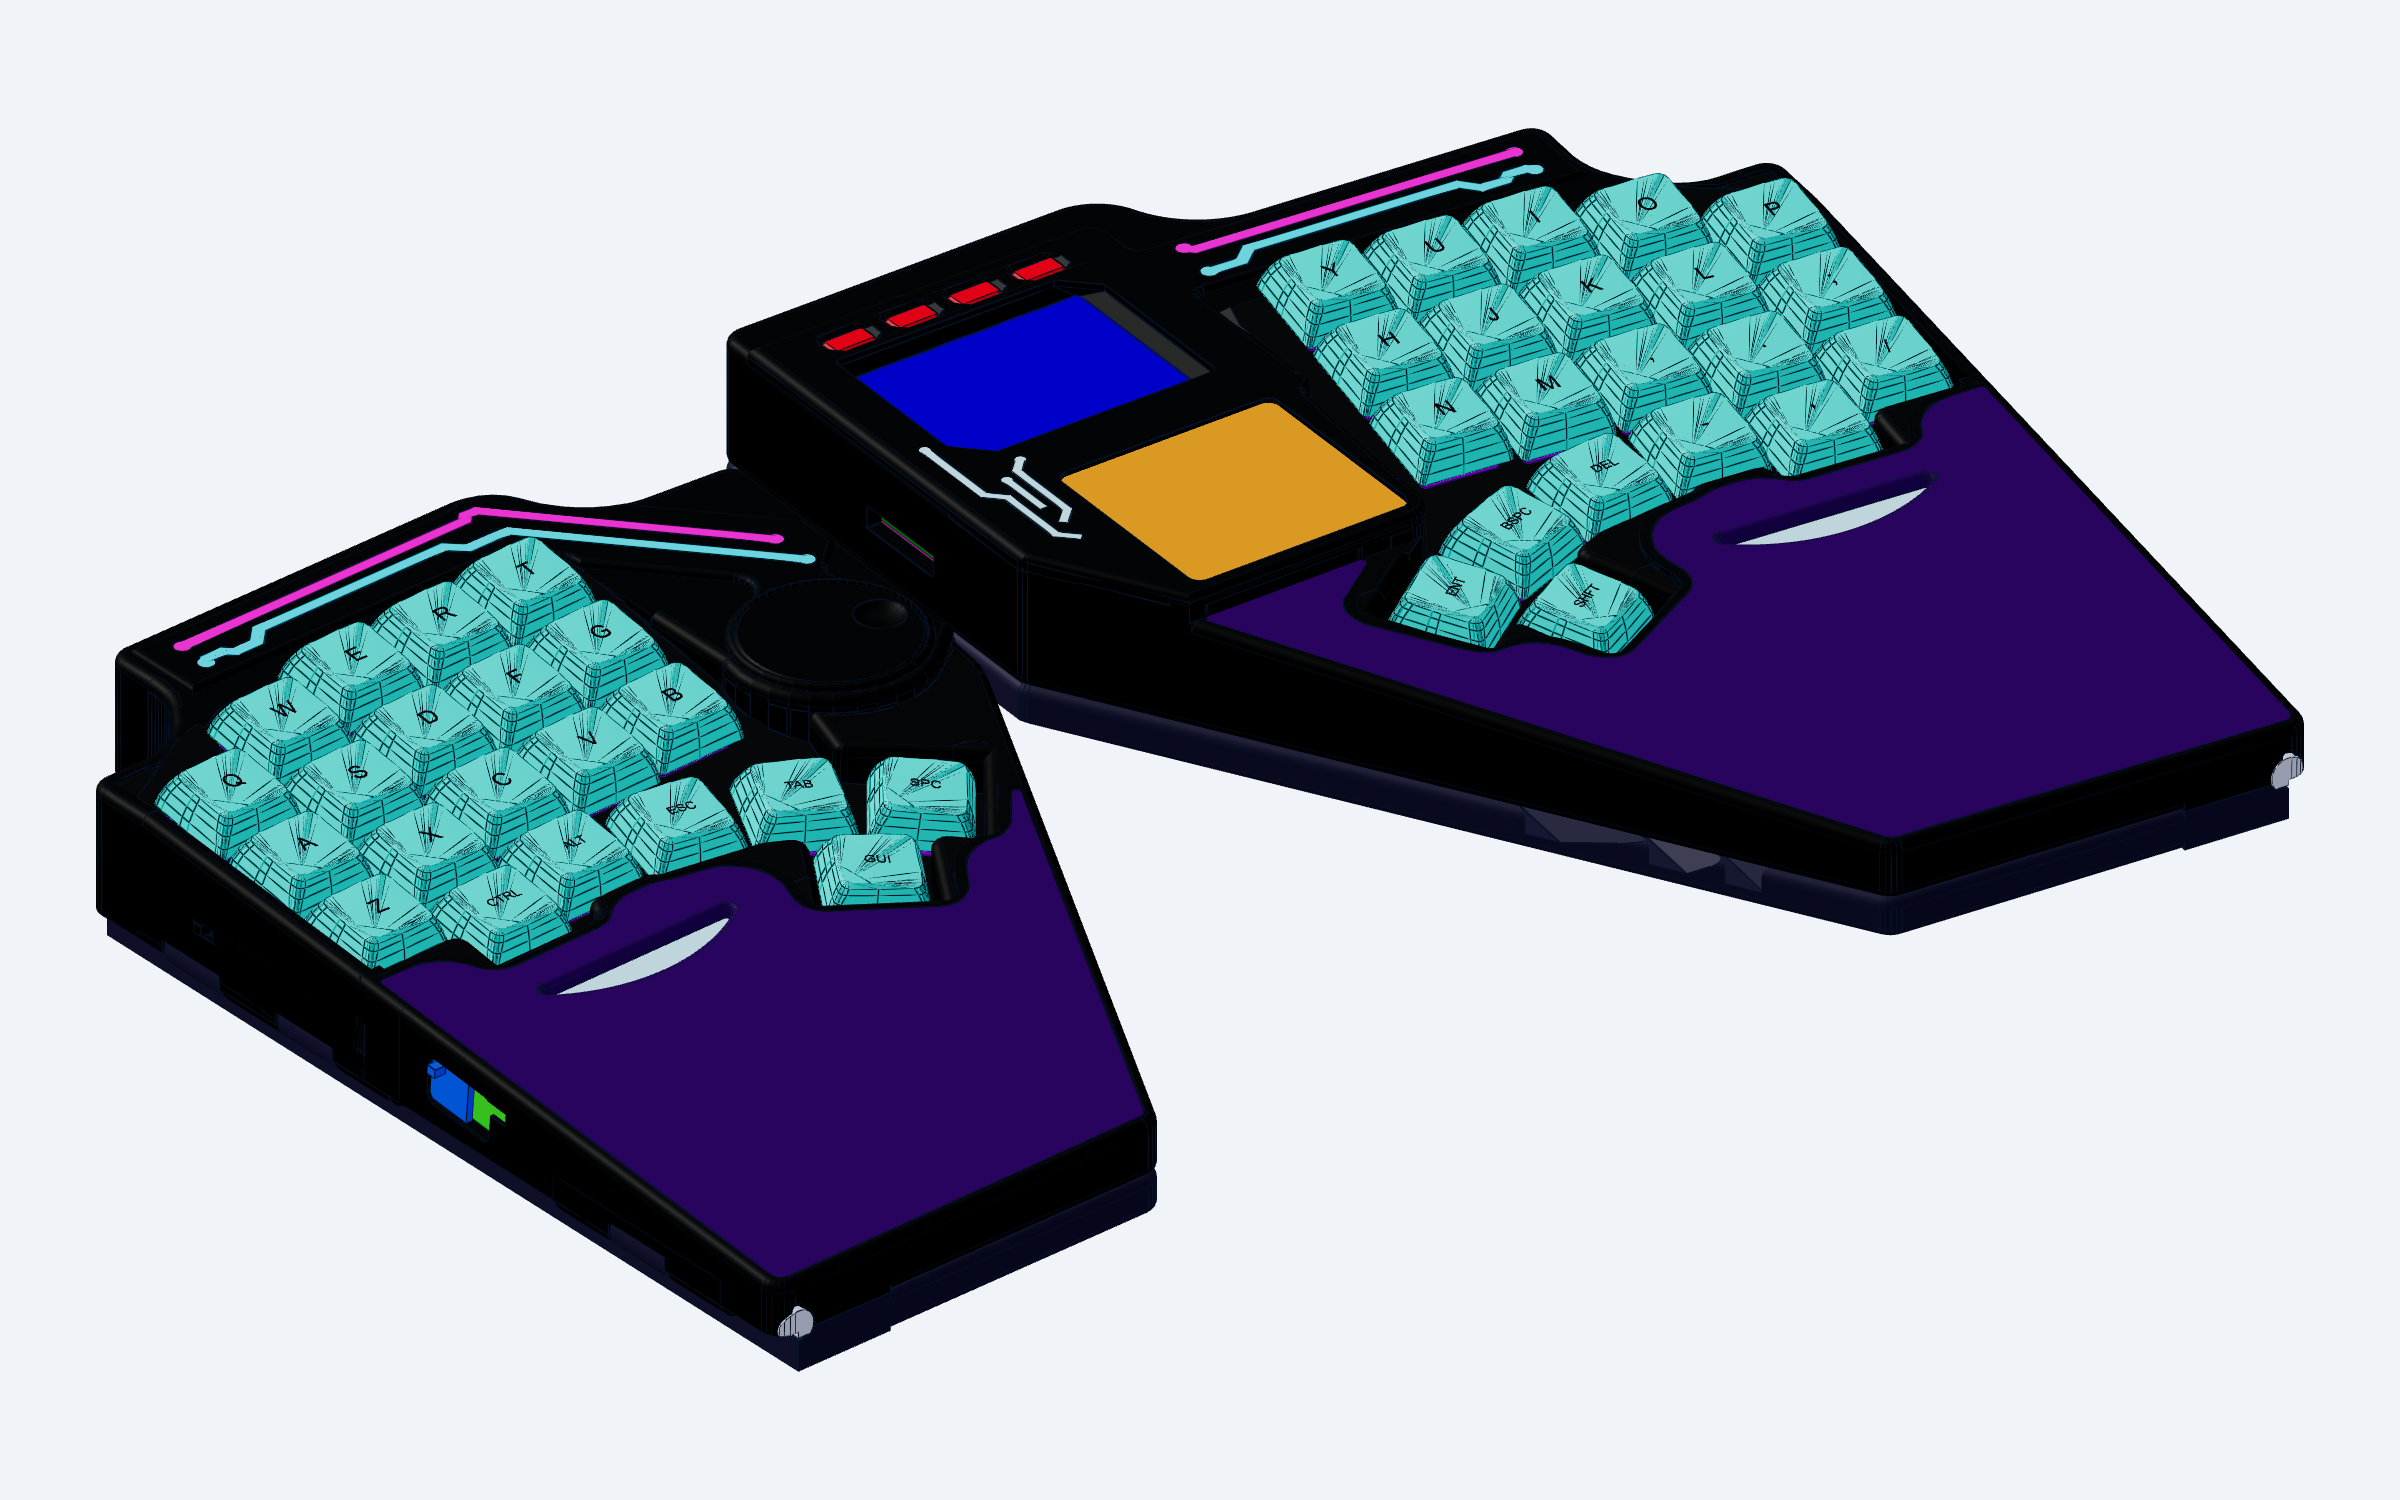
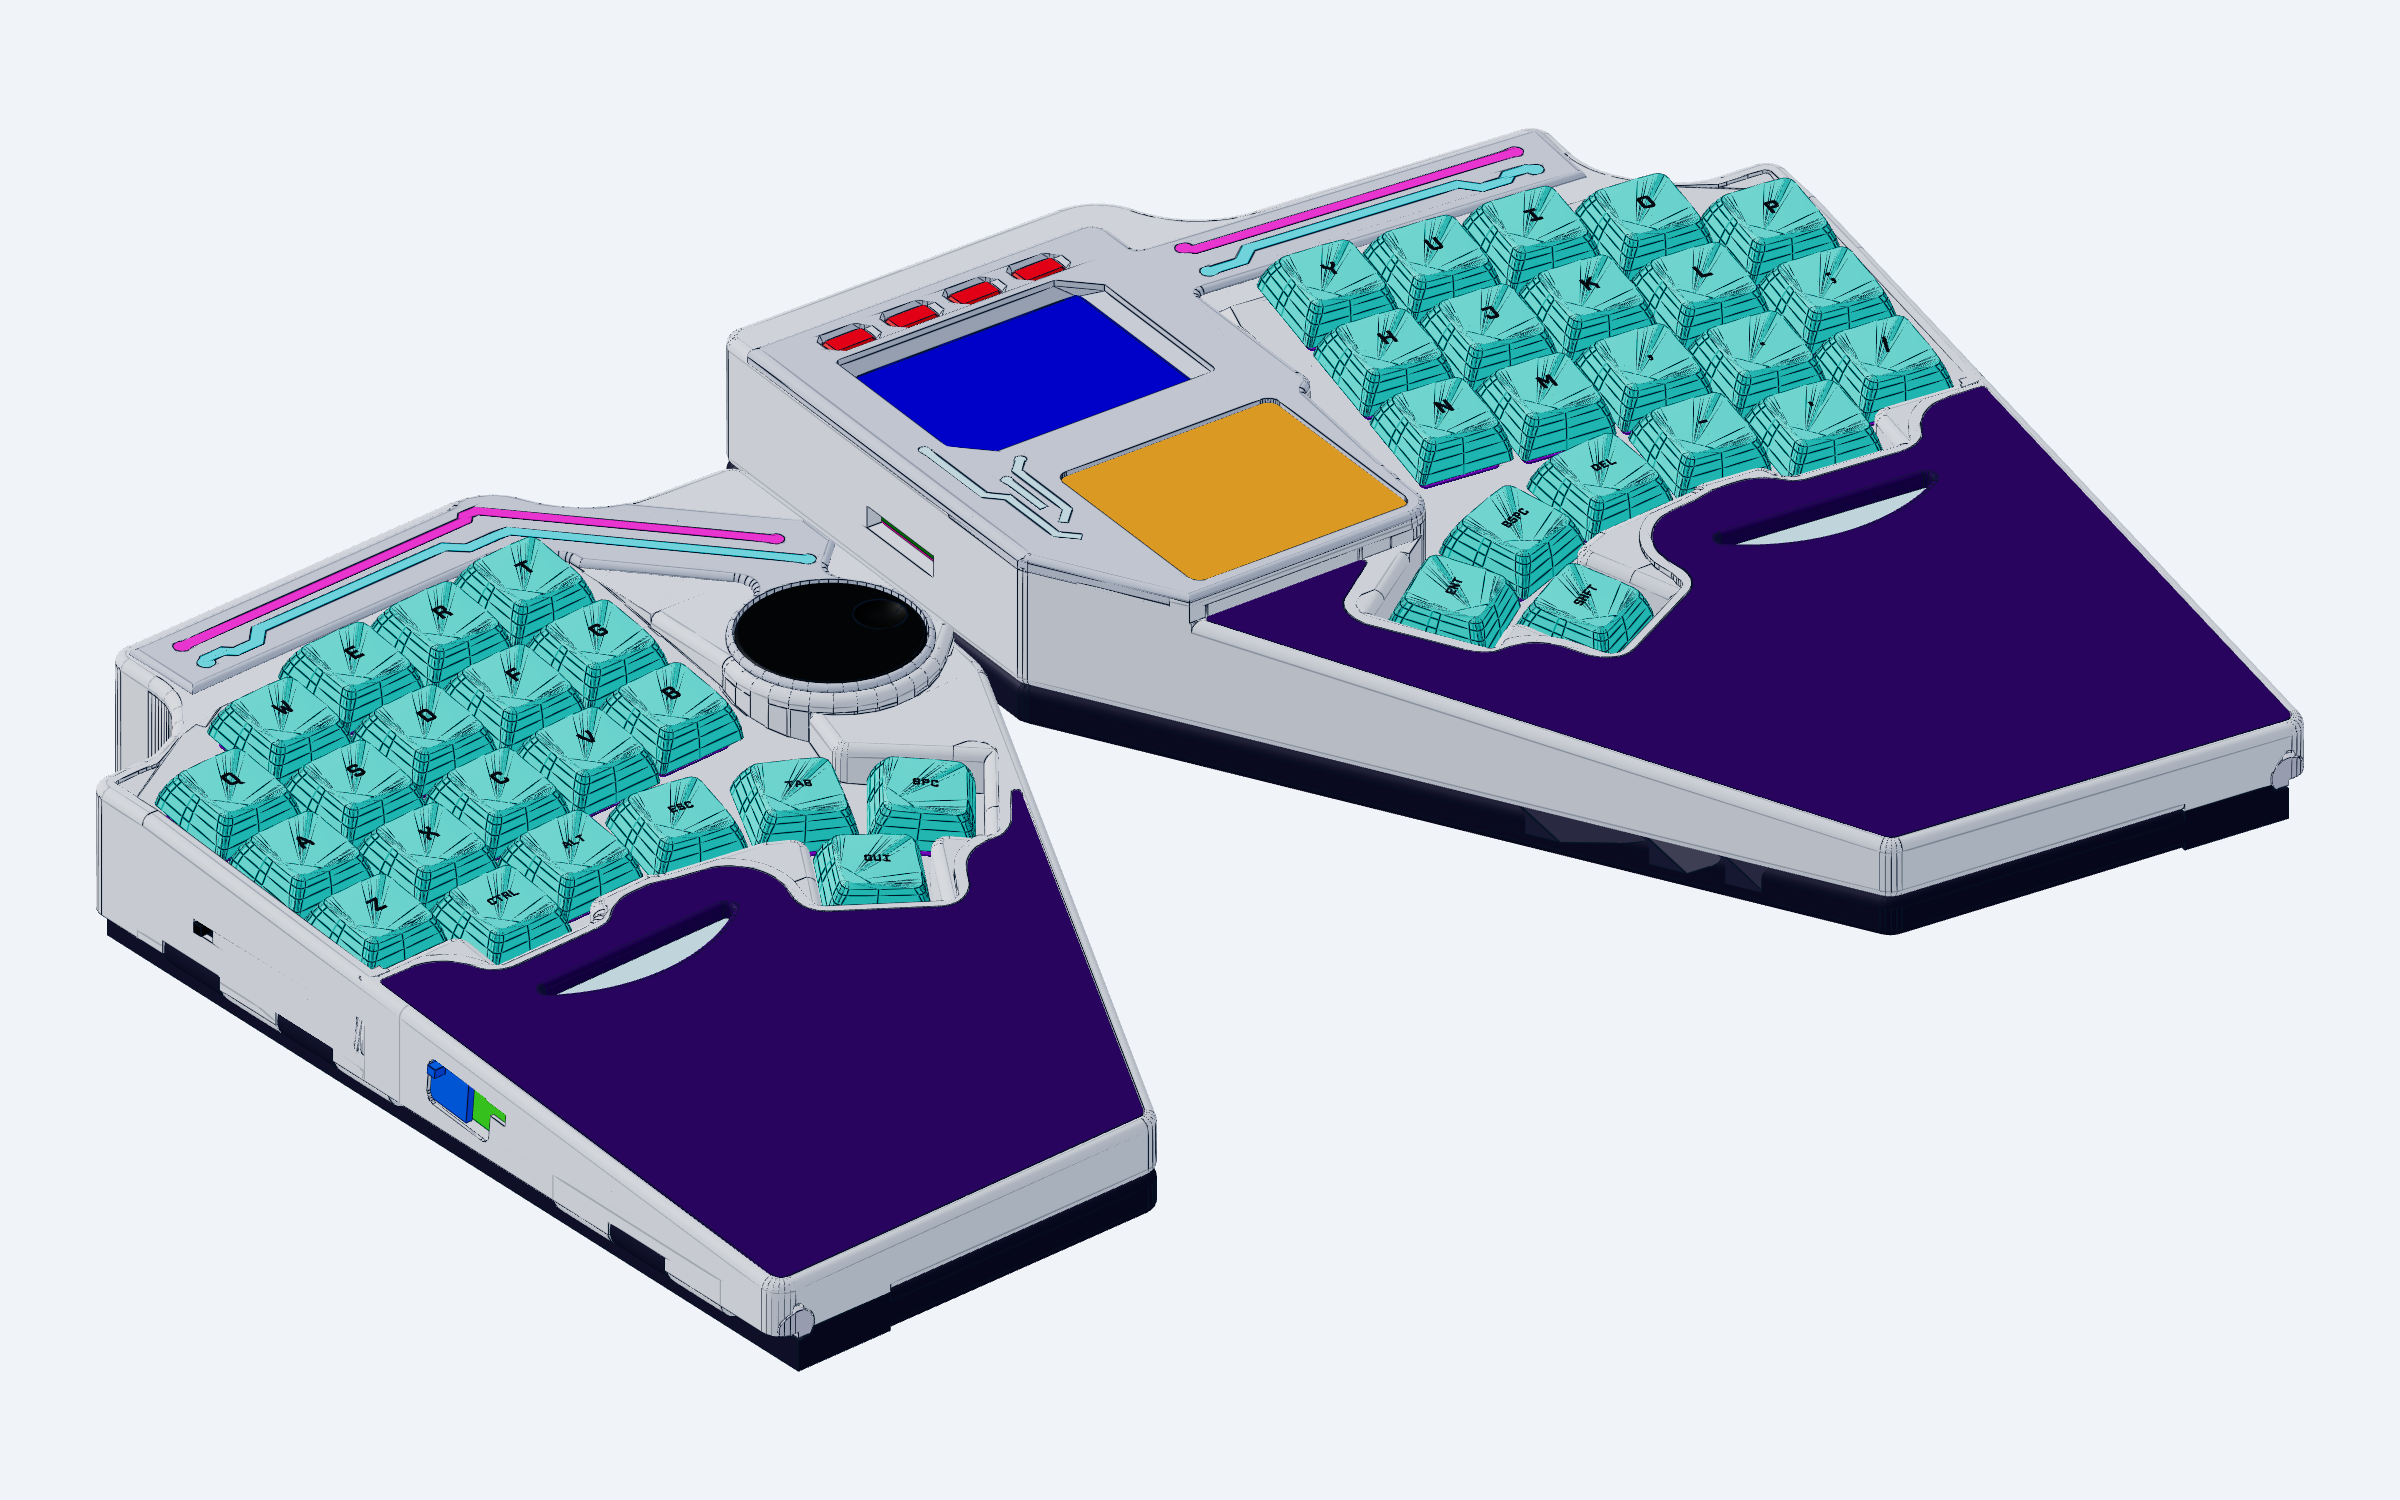
renders: light body, CPMono legends, tented on the stands, x-ray of the Picos / Pi stack / cells
Claude-Session: https://claude.ai/code/session_01CoejT9he88dajhCRd34ZGv

diff --git a/cad/velvet/frames.py b/cad/velvet/frames.py
@@ -1,4 +1,6 @@
 """Switch frames per half (from velvet_layout) and the switch + cap solids on them."""
+from pathlib import Path
+
 from build123d import Pos, Rot, import_step
 
 from velvet.params import *  # noqa: F401,F403
@@ -29,6 +31,9 @@ LEGEND_X = {"L_r3c2": "ALT", "L_r3c3": "CTRL", "R_r3c2": "-", "R_r3c3": "'", "L_
             "R_t0": "ENT", "R_t1": "BSPC", "R_t2": "DEL", "R_t3": "SHFT"}
 
 
+LEGEND_FONT = Path.home() / "Library/Fonts/CPMono_v07 Bold.otf"   # Willy 14:19 'one of the dope futuristic fonts' (installed; Orbitron would be a download)
+
+
 def legend_text(k):
     if k in LEGEND_X:
         return LEGEND_X[k]
@@ -41,7 +46,7 @@ def legend(k):
     from build123d import Text, extrude
     t = legend_text(k)
     cap = dsa_cap(VL.cap_u(k))
-    txt = Pos(0, 0, DSA_H - 2.5) * extrude(Text(t, 4.5 if len(t) == 1 else 2.6), 3.0)
+    txt = Pos(0, 0, DSA_H - 2.5) * extrude(Text(t, 4.5 if len(t) == 1 else 2.4, font_path=str(LEGEND_FONT) if LEGEND_FONT.exists() else None), 3.0)
     return (txt & (Pos(0, 0, 0.12) * cap)) - cap
 
 

diff --git a/README.md b/README.md
@@ -4,11 +4,14 @@ A foldable split keyboard with a Raspberry Pi in it. Each half tents on its own 
 
 Designed in code (build123d) around real catalog STEP files of the parts inside it (key switches, Pi, screen, Picos, encoder, LEDs, slide switches): holes, pockets and clearances are cut from the parts' actual geometry.
 
-![typedeck, both halves](images/typedeck_top.png)
+![typedeck, both halves](images/typedeck_angle.png)
 
-![typedeck, three-quarter view](images/typedeck_angle.png)
+![typedeck, tented on its stands](images/typedeck_tent24.png)
 
-![typedeck, back: ports and switches](images/typedeck_back.png)
+| | |
+|---|---|
+| ![top](images/typedeck_top.png) | ![x-ray: the two Pico 2 W boards, the Pi Zero 2 W + PiTFT stack, the 18650 cells](images/typedeck_xray.png) |
+| ![left half tented, from above](images/typedeck_tent28.png) | ![back: ports and switches](images/typedeck_back.png) |
 
 > These are renders. Photos of the printed build are coming.
 
